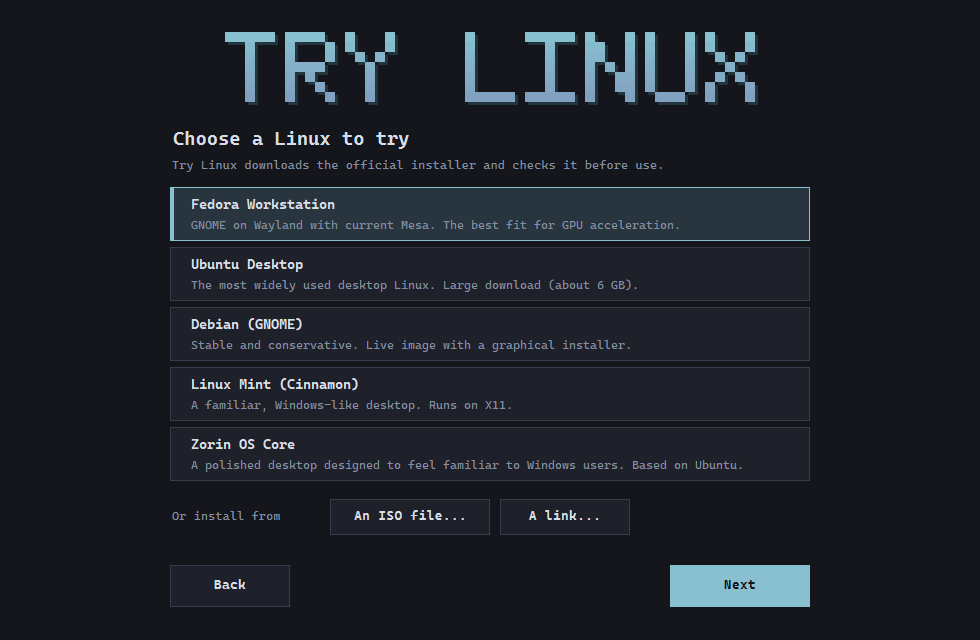
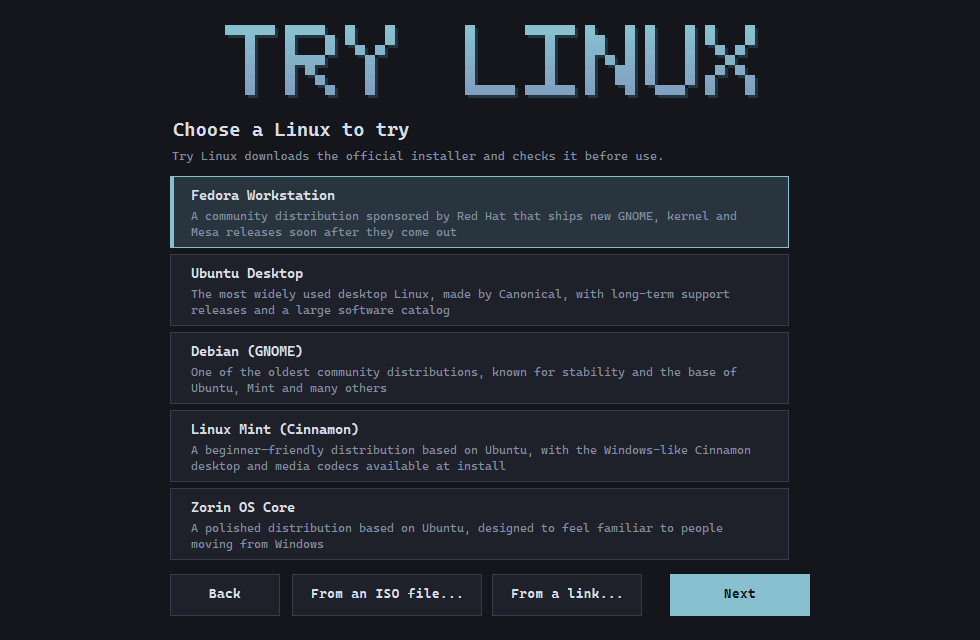
Use the README's distribution descriptions in the Choose screen

diff --git a/TryLinux.cs b/TryLinux.cs
@@ -56,31 +56,31 @@ class Distro
     public static readonly Distro[] Catalog = {
         new Distro {
             Id = "fedora", Name = "Fedora Workstation",
-            Blurb = "GNOME on Wayland with current Mesa. The best fit for GPU acceleration.",
+            Blurb = "A community distribution sponsored by Red Hat that ships new GNOME, kernel and Mesa releases soon after they come out",
             Base = "https://mirrors.kernel.org/fedora/releases/",
             Steps = new[] { @"~^\d+/$", "Workstation/x86_64/iso/", @"~^Fedora-Workstation-Live-.*\.iso$" },
             Checksum = "~CHECKSUM$" },
         new Distro {
             Id = "ubuntu", Name = "Ubuntu Desktop",
-            Blurb = "The most widely used desktop Linux. Large download (about 6 GB).",
+            Blurb = "The most widely used desktop Linux, made by Canonical, with long-term support releases and a large software catalog",
             Base = "https://releases.ubuntu.com/",
             Steps = new[] { @"~^\d\d\.\d\d(\.\d+)?/$", @"~^ubuntu-.*-desktop-amd64\.iso$" },
             Checksum = "SHA256SUMS" },
         new Distro {
             Id = "debian", Name = "Debian (GNOME)",
-            Blurb = "Stable and conservative. Live image with a graphical installer.",
+            Blurb = "One of the oldest community distributions, known for stability and the base of Ubuntu, Mint and many others",
             Base = "https://cdimage.debian.org/debian-cd/current-live/amd64/iso-hybrid/",
             Steps = new[] { @"~^debian-live-.*-amd64-gnome\.iso$" },
             Checksum = "SHA256SUMS" },
         new Distro {
             Id = "mint", Name = "Linux Mint (Cinnamon)",
-            Blurb = "A familiar, Windows-like desktop. Runs on X11.",
+            Blurb = "A beginner-friendly distribution based on Ubuntu, with the Windows-like Cinnamon desktop and media codecs available at install",
             Base = "https://mirrors.edge.kernel.org/linuxmint/stable/",
             Steps = new[] { @"~^\d+(\.\d+)?/$", @"~^linuxmint-.*-cinnamon-64bit\.iso$" },
             Checksum = "sha256sum.txt" },
         new Distro {
             Id = "zorin", Name = "Zorin OS Core",
-            Blurb = "A polished desktop designed to feel familiar to Windows users. Based on Ubuntu.",
+            Blurb = "A polished distribution based on Ubuntu, designed to feel familiar to people moving from Windows",
             Base = "https://mirrors.edge.kernel.org/zorinos-isos/",
             Steps = new[] { @"~^\d+/$", @"~^Zorin-OS-(?<v>\d+(\.\d+)*)-Core-64-bit(-r\d+)?\.iso$" },
             Checksum = "SHA256SUMS.txt" },
@@ -993,8 +993,16 @@ class OptionRow : Control
         if (selected) using (var b = new SolidBrush(Theme.Accent)) g.FillRectangle(b, 0, 0, Theme.D(4), Height);
         int pad = Theme.D(18), half = Height / 2;
         var flags = TextFormatFlags.Left | TextFormatFlags.VerticalCenter | TextFormatFlags.EndEllipsis | TextFormatFlags.NoPrefix;
-        TextRenderer.DrawText(g, Title, Theme.Bold, new Rectangle(pad, Theme.D(4), Width - pad * 2, half - Theme.D(2)), Theme.Text, flags);
-        TextRenderer.DrawText(g, Sub, Theme.Small, new Rectangle(pad, half, Width - pad * 2, half - Theme.D(6)), Theme.Muted, flags);
+        if (Height < Theme.D(64))
+        {
+            TextRenderer.DrawText(g, Title, Theme.Bold, new Rectangle(pad, Theme.D(4), Width - pad * 2, half - Theme.D(2)), Theme.Text, flags);
+            TextRenderer.DrawText(g, Sub, Theme.Small, new Rectangle(pad, half, Width - pad * 2, half - Theme.D(6)), Theme.Muted, flags);
+            return;
+        }
+        // Tall rows: title on top, description wrapped onto the lines below.
+        TextRenderer.DrawText(g, Title, Theme.Bold, new Rectangle(pad, Theme.D(8), Width - pad * 2, Theme.D(20)), Theme.Text, flags);
+        TextRenderer.DrawText(g, Sub, Theme.Small, new Rectangle(pad, Theme.D(31), Width - pad * 2, Height - Theme.D(37)), Theme.Muted,
+            TextFormatFlags.Left | TextFormatFlags.Top | TextFormatFlags.WordBreak | TextFormatFlags.EndEllipsis | TextFormatFlags.NoPrefix);
     }
 }
 
@@ -1003,6 +1011,7 @@ class OptionList : Panel
     readonly List<OptionRow> rows = new List<OptionRow>();
     int selectedIndex = -1;
     public event EventHandler SelectionChanged, Activated;
+    public int RowHeight = 54;          // design units; 72 fits a two-line description
 
     public OptionList()
     {
@@ -1025,7 +1034,7 @@ class OptionList : Panel
 
     void LayoutRows()
     {
-        int h = Theme.D(54), gap = Theme.D(6);
+        int h = Theme.D(RowHeight), gap = Theme.D(6);
         bool scroll = rows.Count * (h + gap) > ClientSize.Height;
         int w = ClientSize.Width - (scroll ? SystemInformation.VerticalScrollBarWidth + Theme.D(4) : 0);
         for (int i = 0; i < rows.Count; i++) rows[i].SetBounds(0, AutoScrollPosition.Y + i * (h + gap), w, h);
@@ -1333,23 +1342,24 @@ partial class MainForm : Form
     void ShowChoose()
     {
         bool hasVms = VmConfig.All().Count > 0;
-        var p = new Page(590);
-        p.Caption("Choose a Linux to try", 0, 100, 640, 30, Theme.Title);
-        p.Caption("Try Linux downloads the official installer and checks it before use.", 0, 130, 640, 22, Theme.Small, Theme.Muted);
-        var list = p.Add(new OptionList(), 0, 162, 640, Distro.Catalog.Length * 60);
+        var p = new Page(604);
+        p.Caption("Choose a Linux to try", 0, 98, 640, 30, Theme.Title);
+        p.Caption("Try Linux downloads the official installer and checks it before use.", 0, 128, 640, 22, Theme.Small, Theme.Muted);
+        int listH = Distro.Catalog.Length * 78 - 6;
+        var list = p.Add(new OptionList { RowHeight = 72 }, 0, 158, 640, listH);
         foreach (var d in Distro.Catalog) list.AddItem(d.Name, d.Blurb, d);
         list.SelectedIndex = 0;
 
-        int y = 162 + Distro.Catalog.Length * 60 + 12;
-        p.Caption("Or install from", 0, y, 160, 36, Theme.Small, Theme.Muted);
-        var fromFile = p.Add(new FlatBtn("An ISO file..."), 160, y, 160, 36);
-        var fromUrl = p.Add(new FlatBtn("A link..."), 330, y, 130, 36);
+        // Bottom row: Back, the two other install sources, Next.
+        int y = 158 + listH + 14;
         if (hasVms)
         {
-            var back = p.Add(new FlatBtn("Back"), 0, 540, 120, 42);
+            var back = p.Add(new FlatBtn("Back"), 0, y, 110, 42);
             back.Click += delegate { ShowHome(); };
         }
-        var next = p.Add(new FlatBtn("Next", true), 500, 540, 140, 42);
+        var fromFile = p.Add(new FlatBtn("From an ISO file..."), 122, y, 190, 42);
+        var fromUrl = p.Add(new FlatBtn("From a link..."), 322, y, 150, 42);
+        var next = p.Add(new FlatBtn("Next", true), 500, y, 140, 42);
         Action<object> choose = tag =>
         {
             var plan = new InstallPlan();
